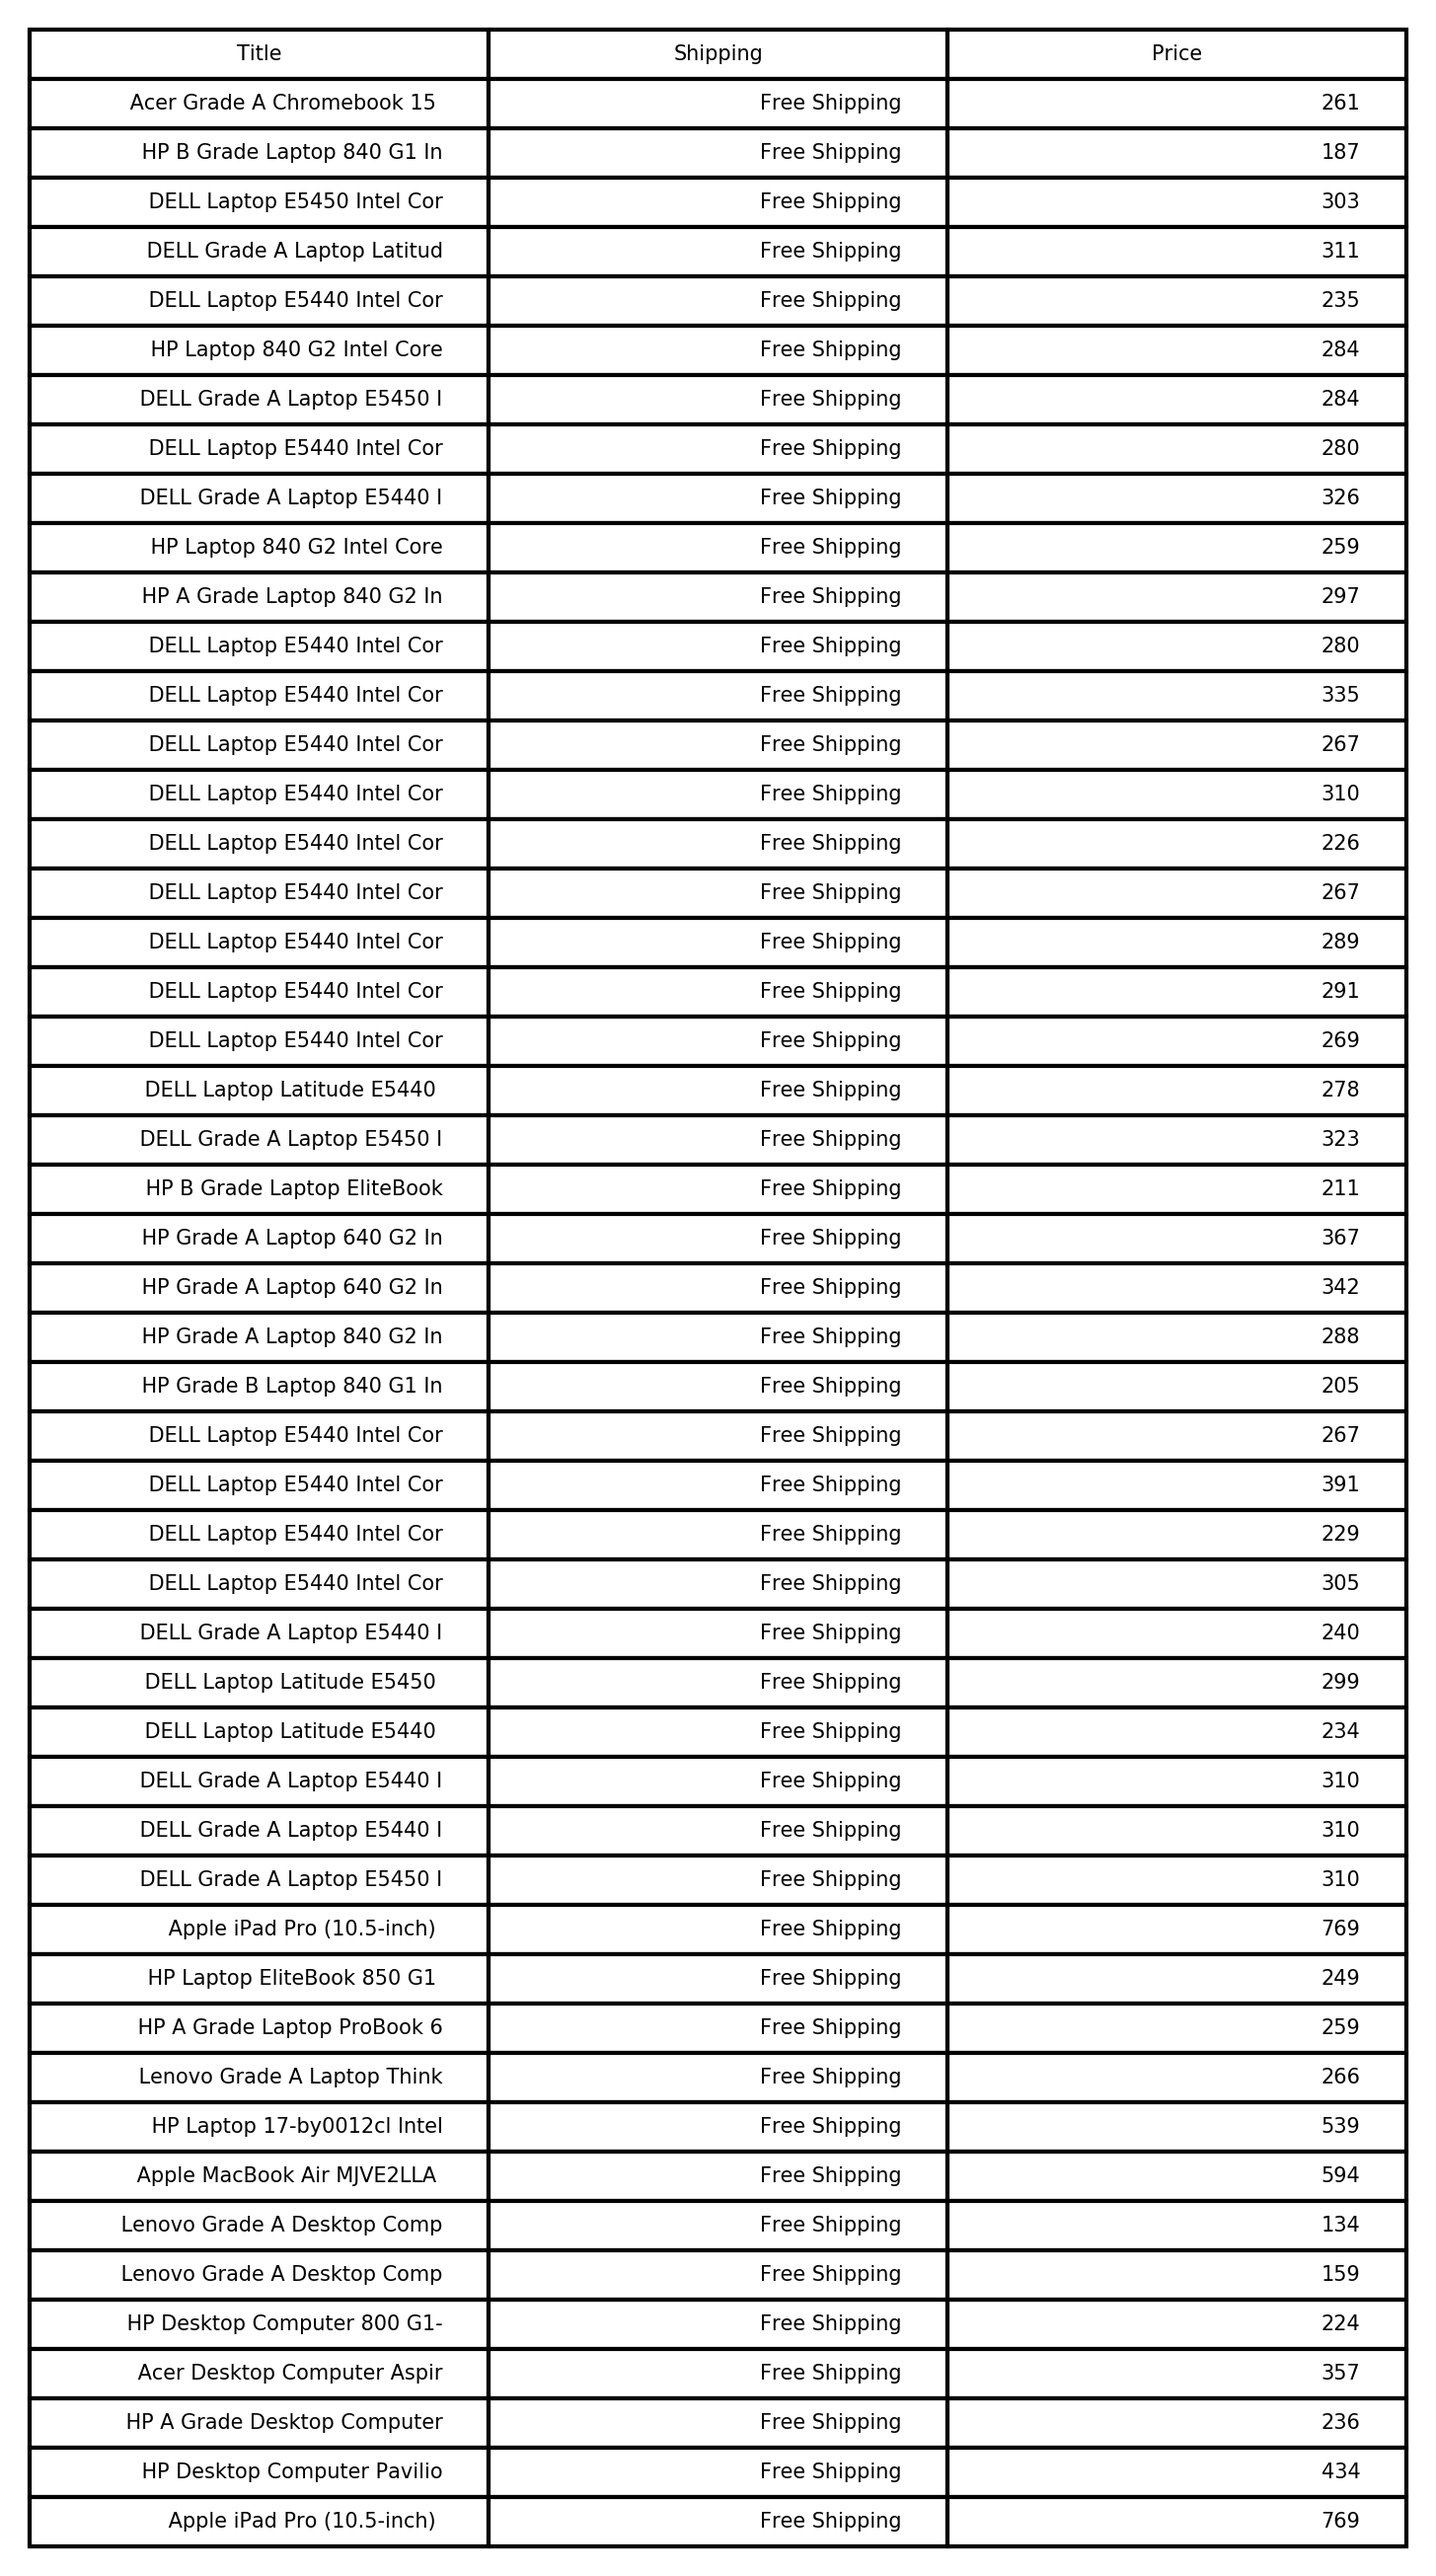
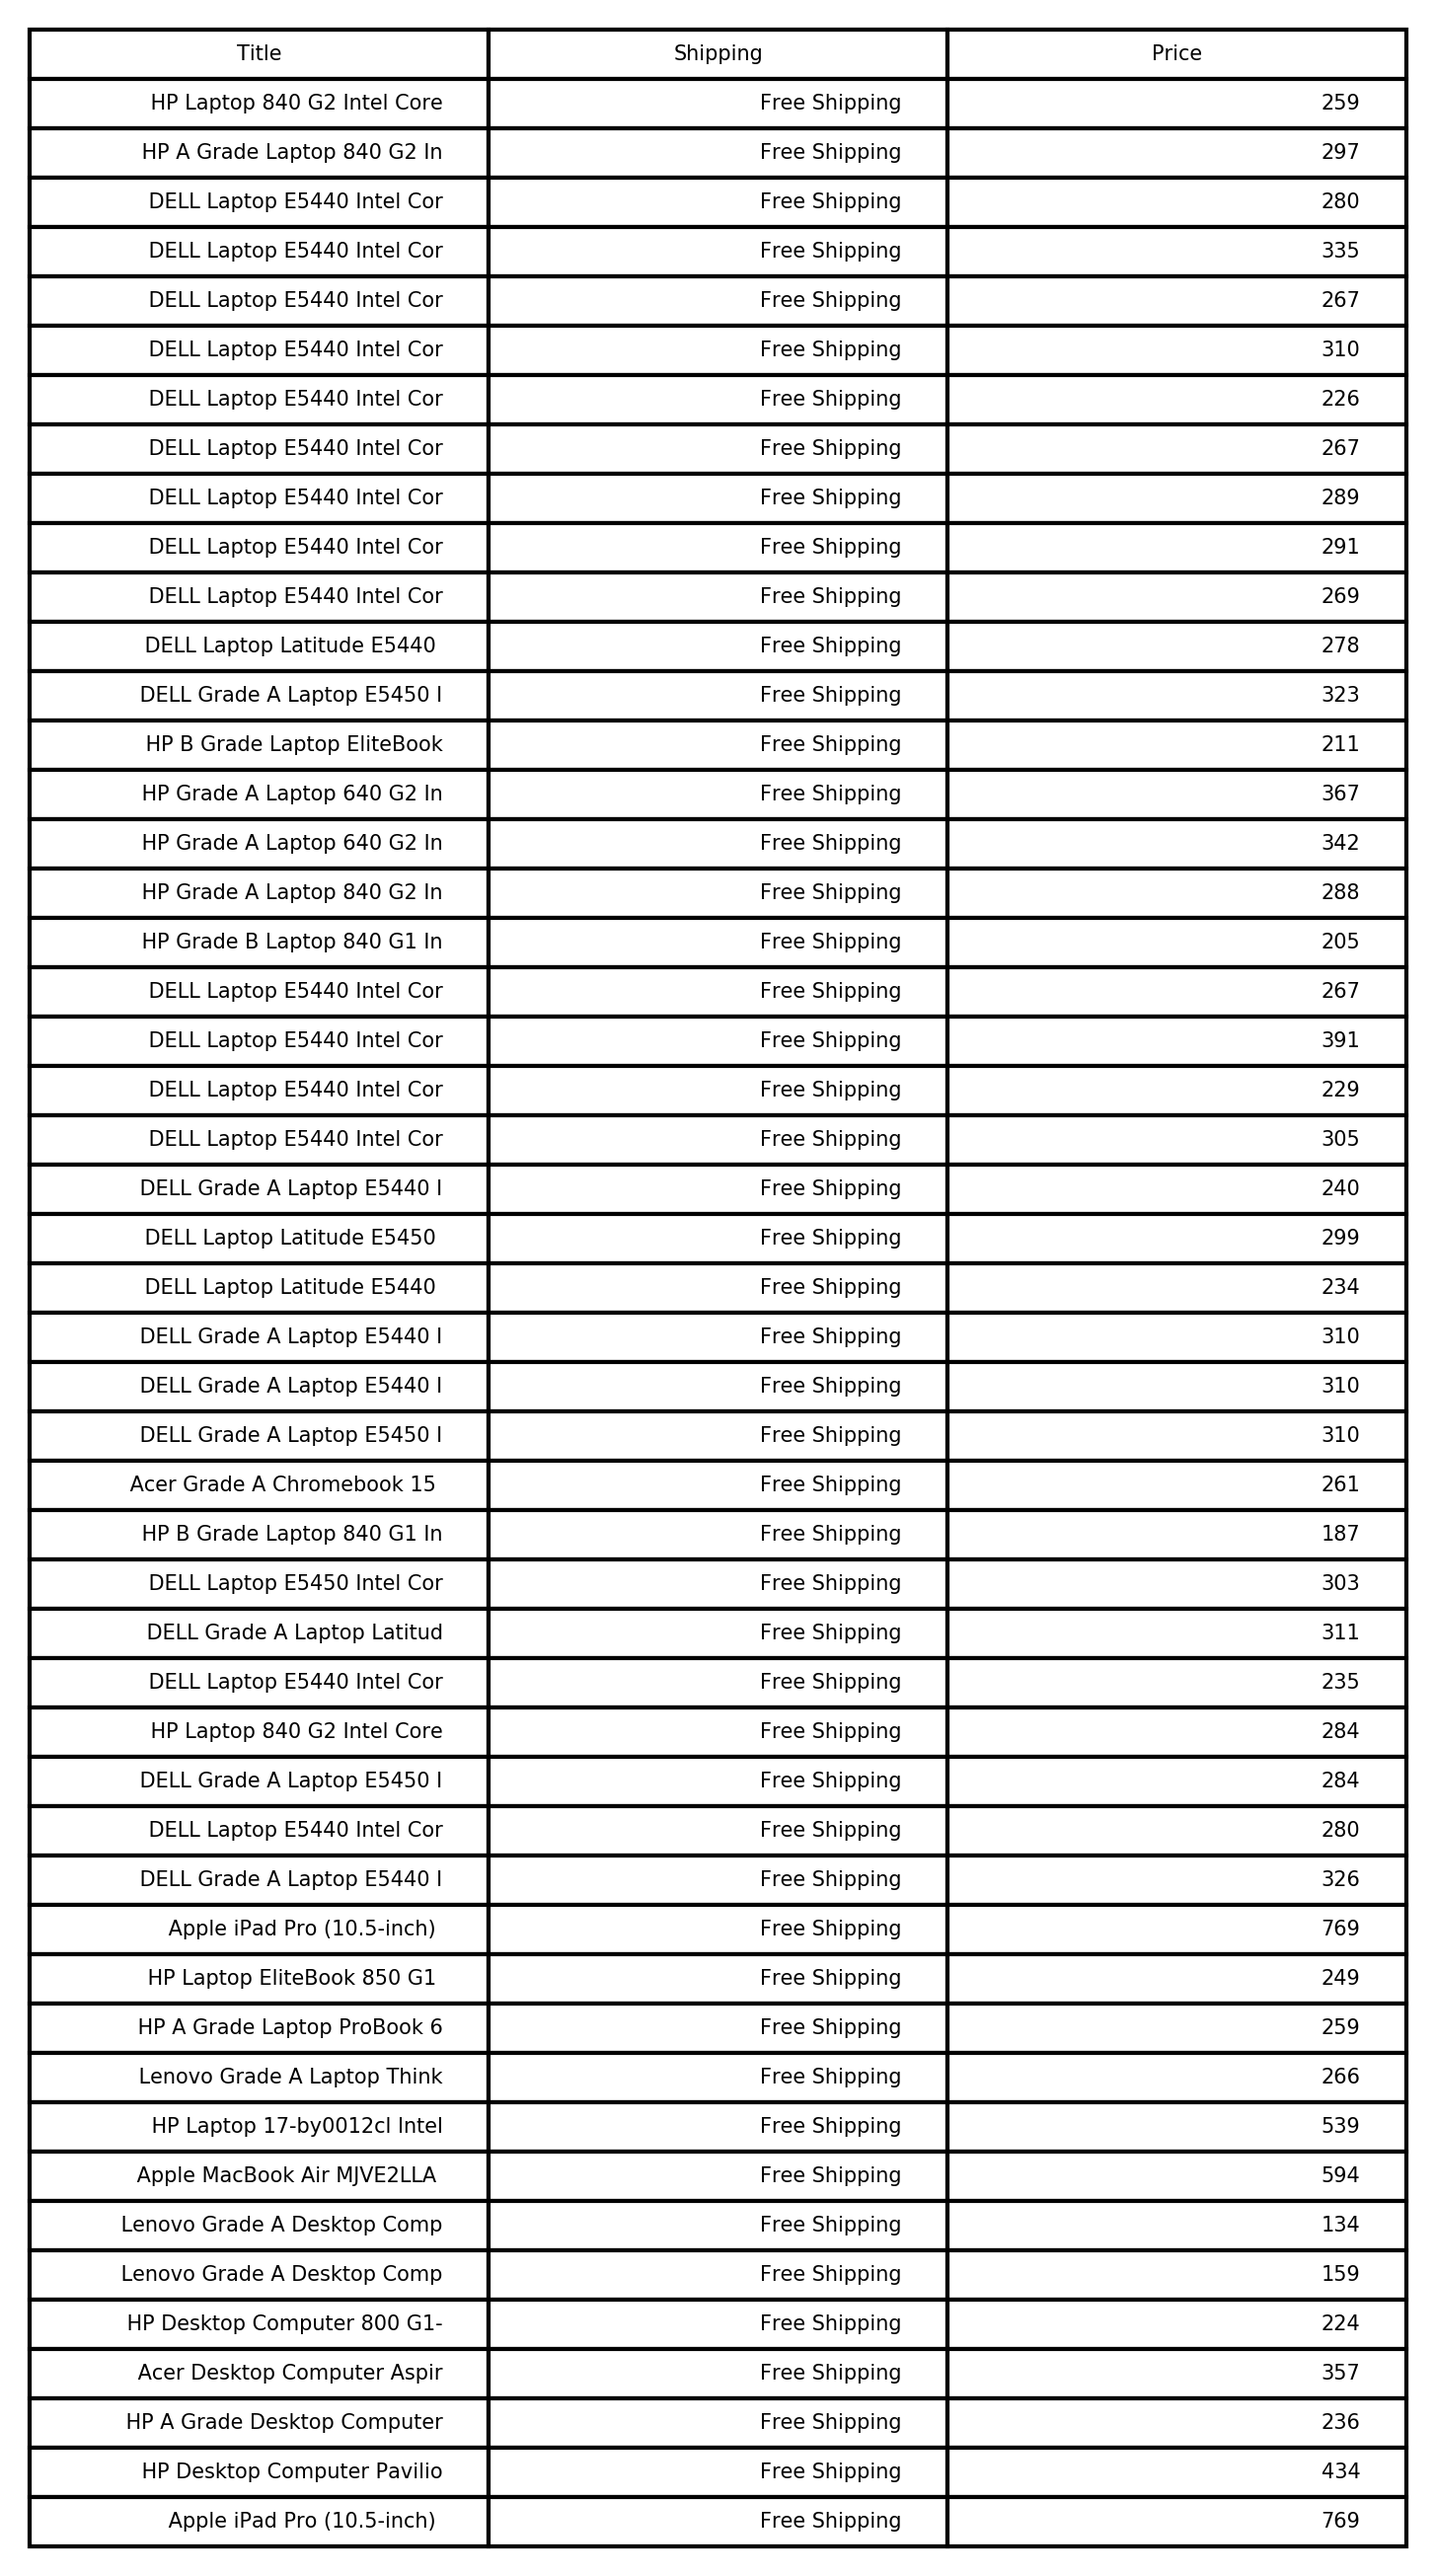
Testing other plot options

diff --git a/ws.py b/ws.py
@@ -2,6 +2,7 @@ import requests
 from bs4 import BeautifulSoup as bs
 import pandas as pd
 import matplotlib.pyplot as plt
+import seaborn as sns
 
 my_url = 'https://www.newegg.com/p/pl?Submit=StoreIM&Depa=80&PageSize=96'
 
@@ -23,20 +24,22 @@ def price_tracker_df(url_to_track):
 
     # Condense the dataframe to make it more readable
     price_tracker = pd.DataFrame(dict_list, columns=['Title', 'Shipping', 'Price'])  # Write the list of dictionaries]
-    price_tracker = price_tracker.head(50)
+    price_tracker = price_tracker.head(3)
     price_tracker['Title'] = price_tracker['Title'].str[12:40]  # Get the first 10 chars of the product
     price_tracker = price_tracker.astype(str)  # Convert everything to string
     return price_tracker
 
 
-def save_plot(table):
-    cell_text = []
-    for row in range(len(table)):
-        cell_text.append(table.iloc[row])
-    plt.table(cellText=cell_text, colLabels=table.columns, loc='center')
-    plt.axis('off')
-    plt.savefig('price-table.png', bbox_inches='tight', dpi=300)
+# def save_plot():
+#    cell_text = []
+#    for row in range(len(table)):
+#        cell_text.append(table.iloc[row])
+#    plt.table(cellText=cell_text, colLabels=table.columns, loc='center')
+#    plt.axis('off')
+#    plt.savefig('price-table.png', bbox_inches='tight', dpi=300)
 
 
 table = price_tracker_df(my_url)  # Cleaned up data for plotting
-save_plot(table)  # Save the plots
+plt.plot(table.Title, table.Price, 'o')
+plt.show()
+# save_plot()  # Save the plots
